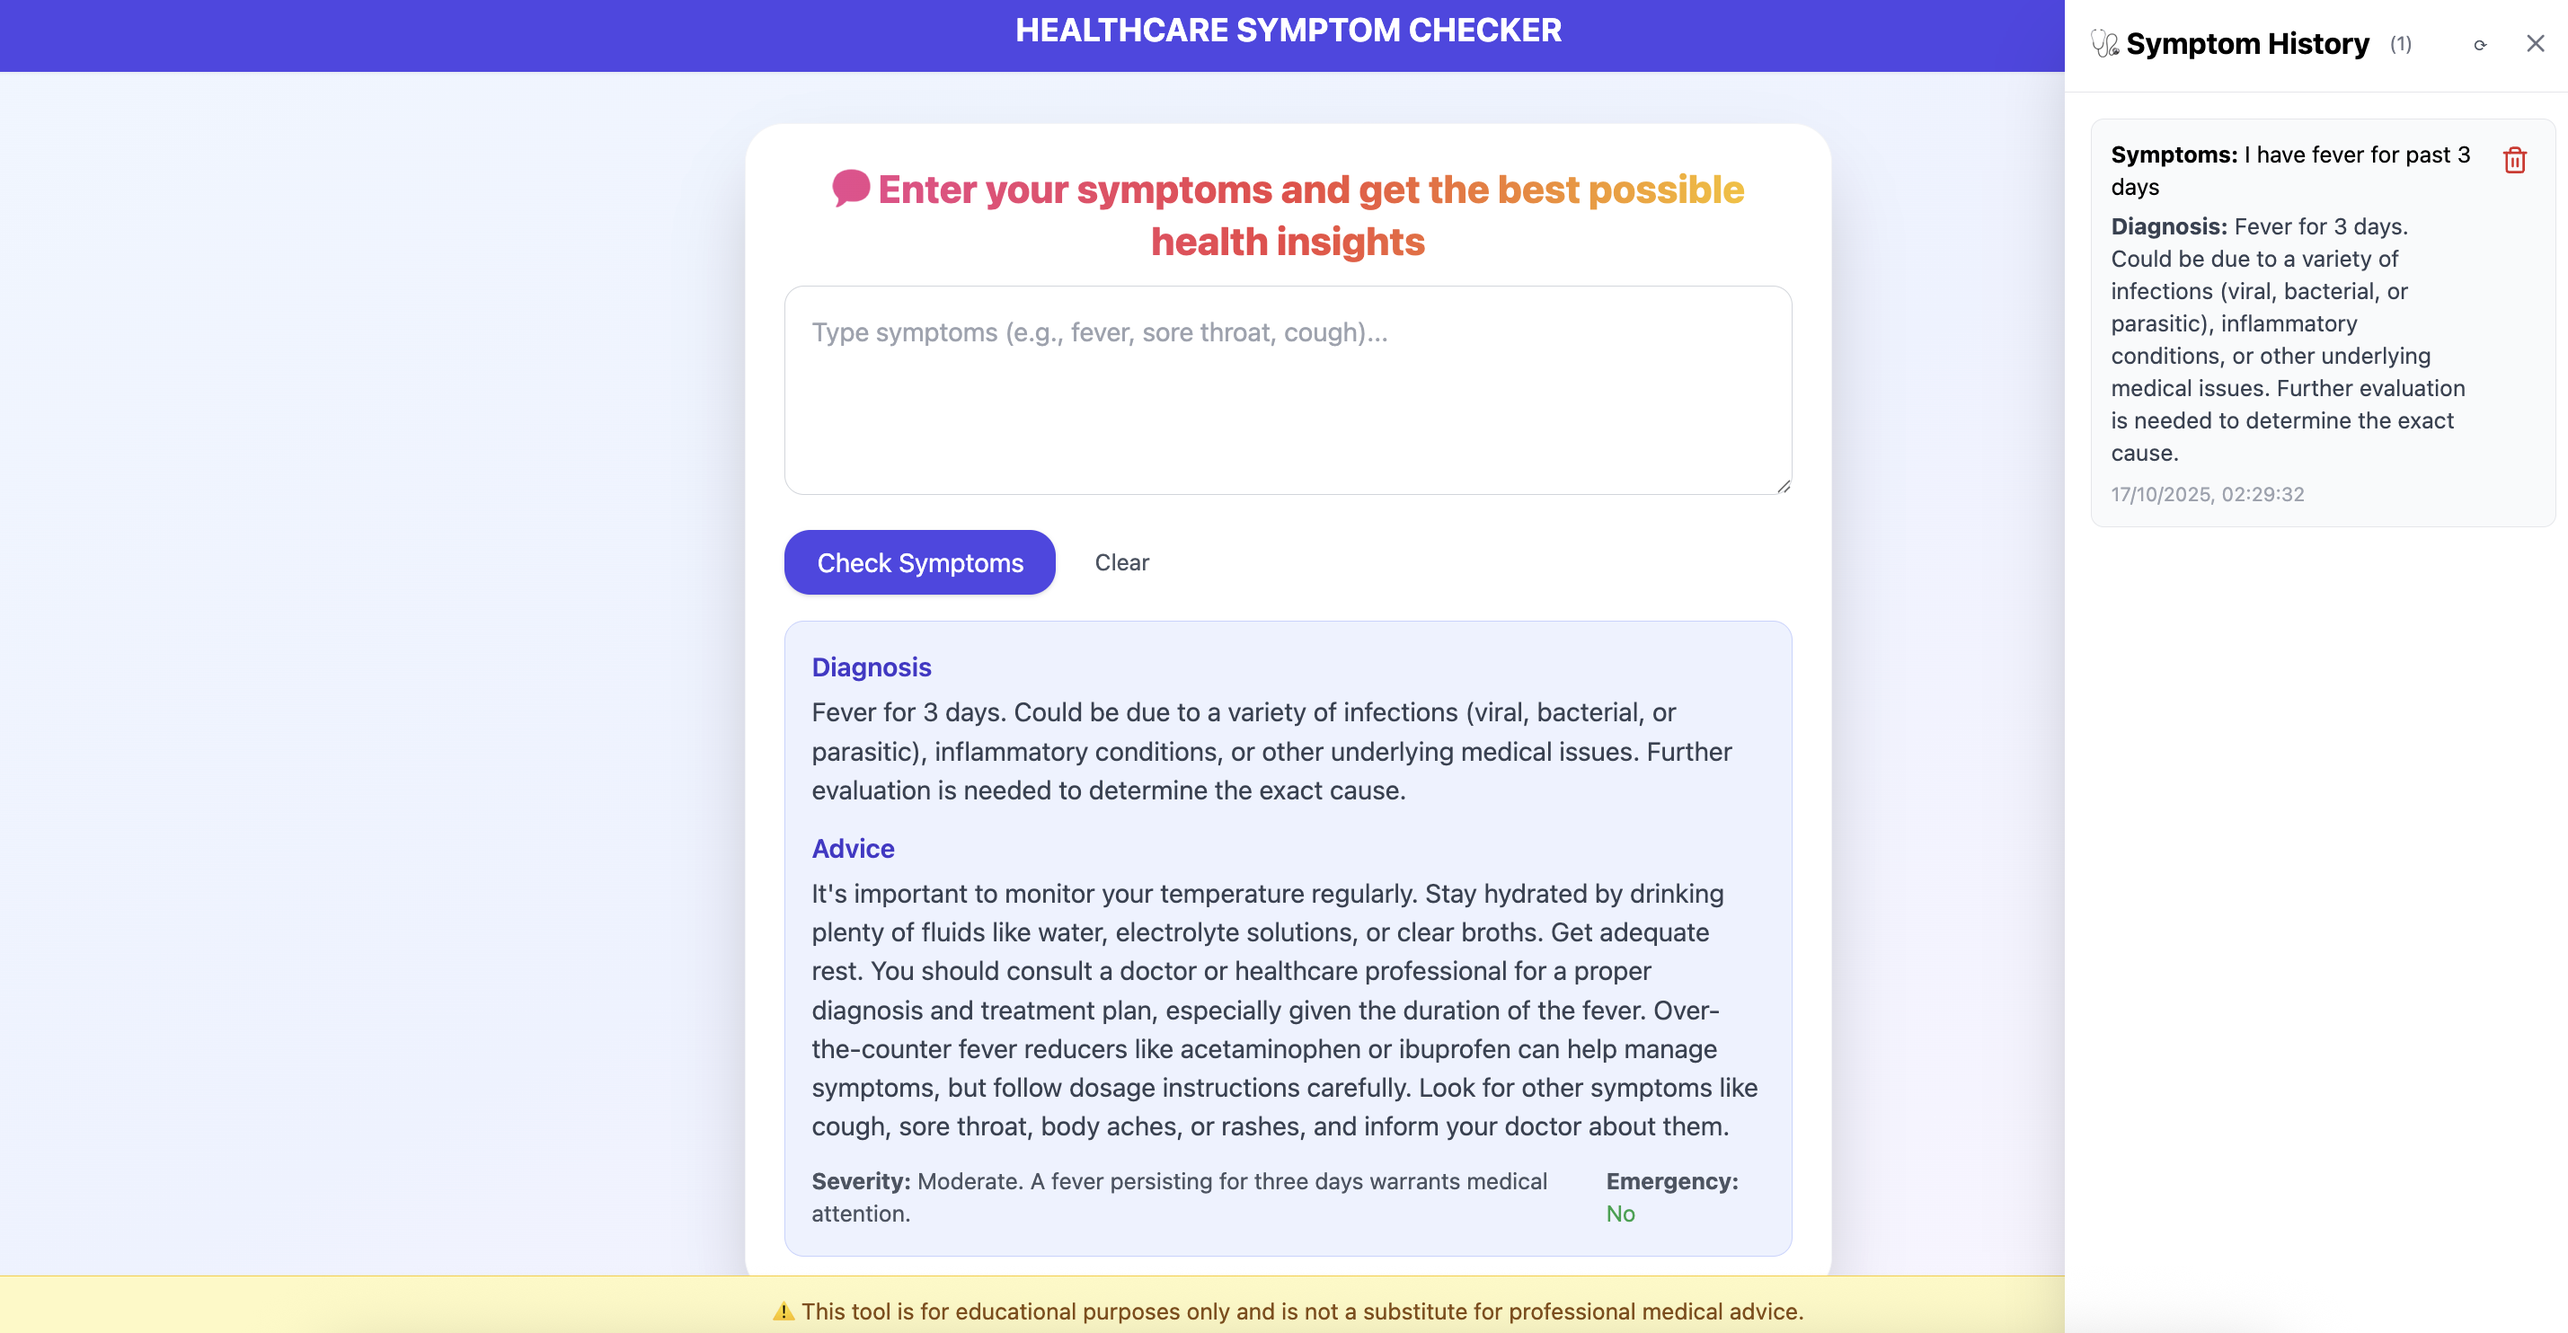
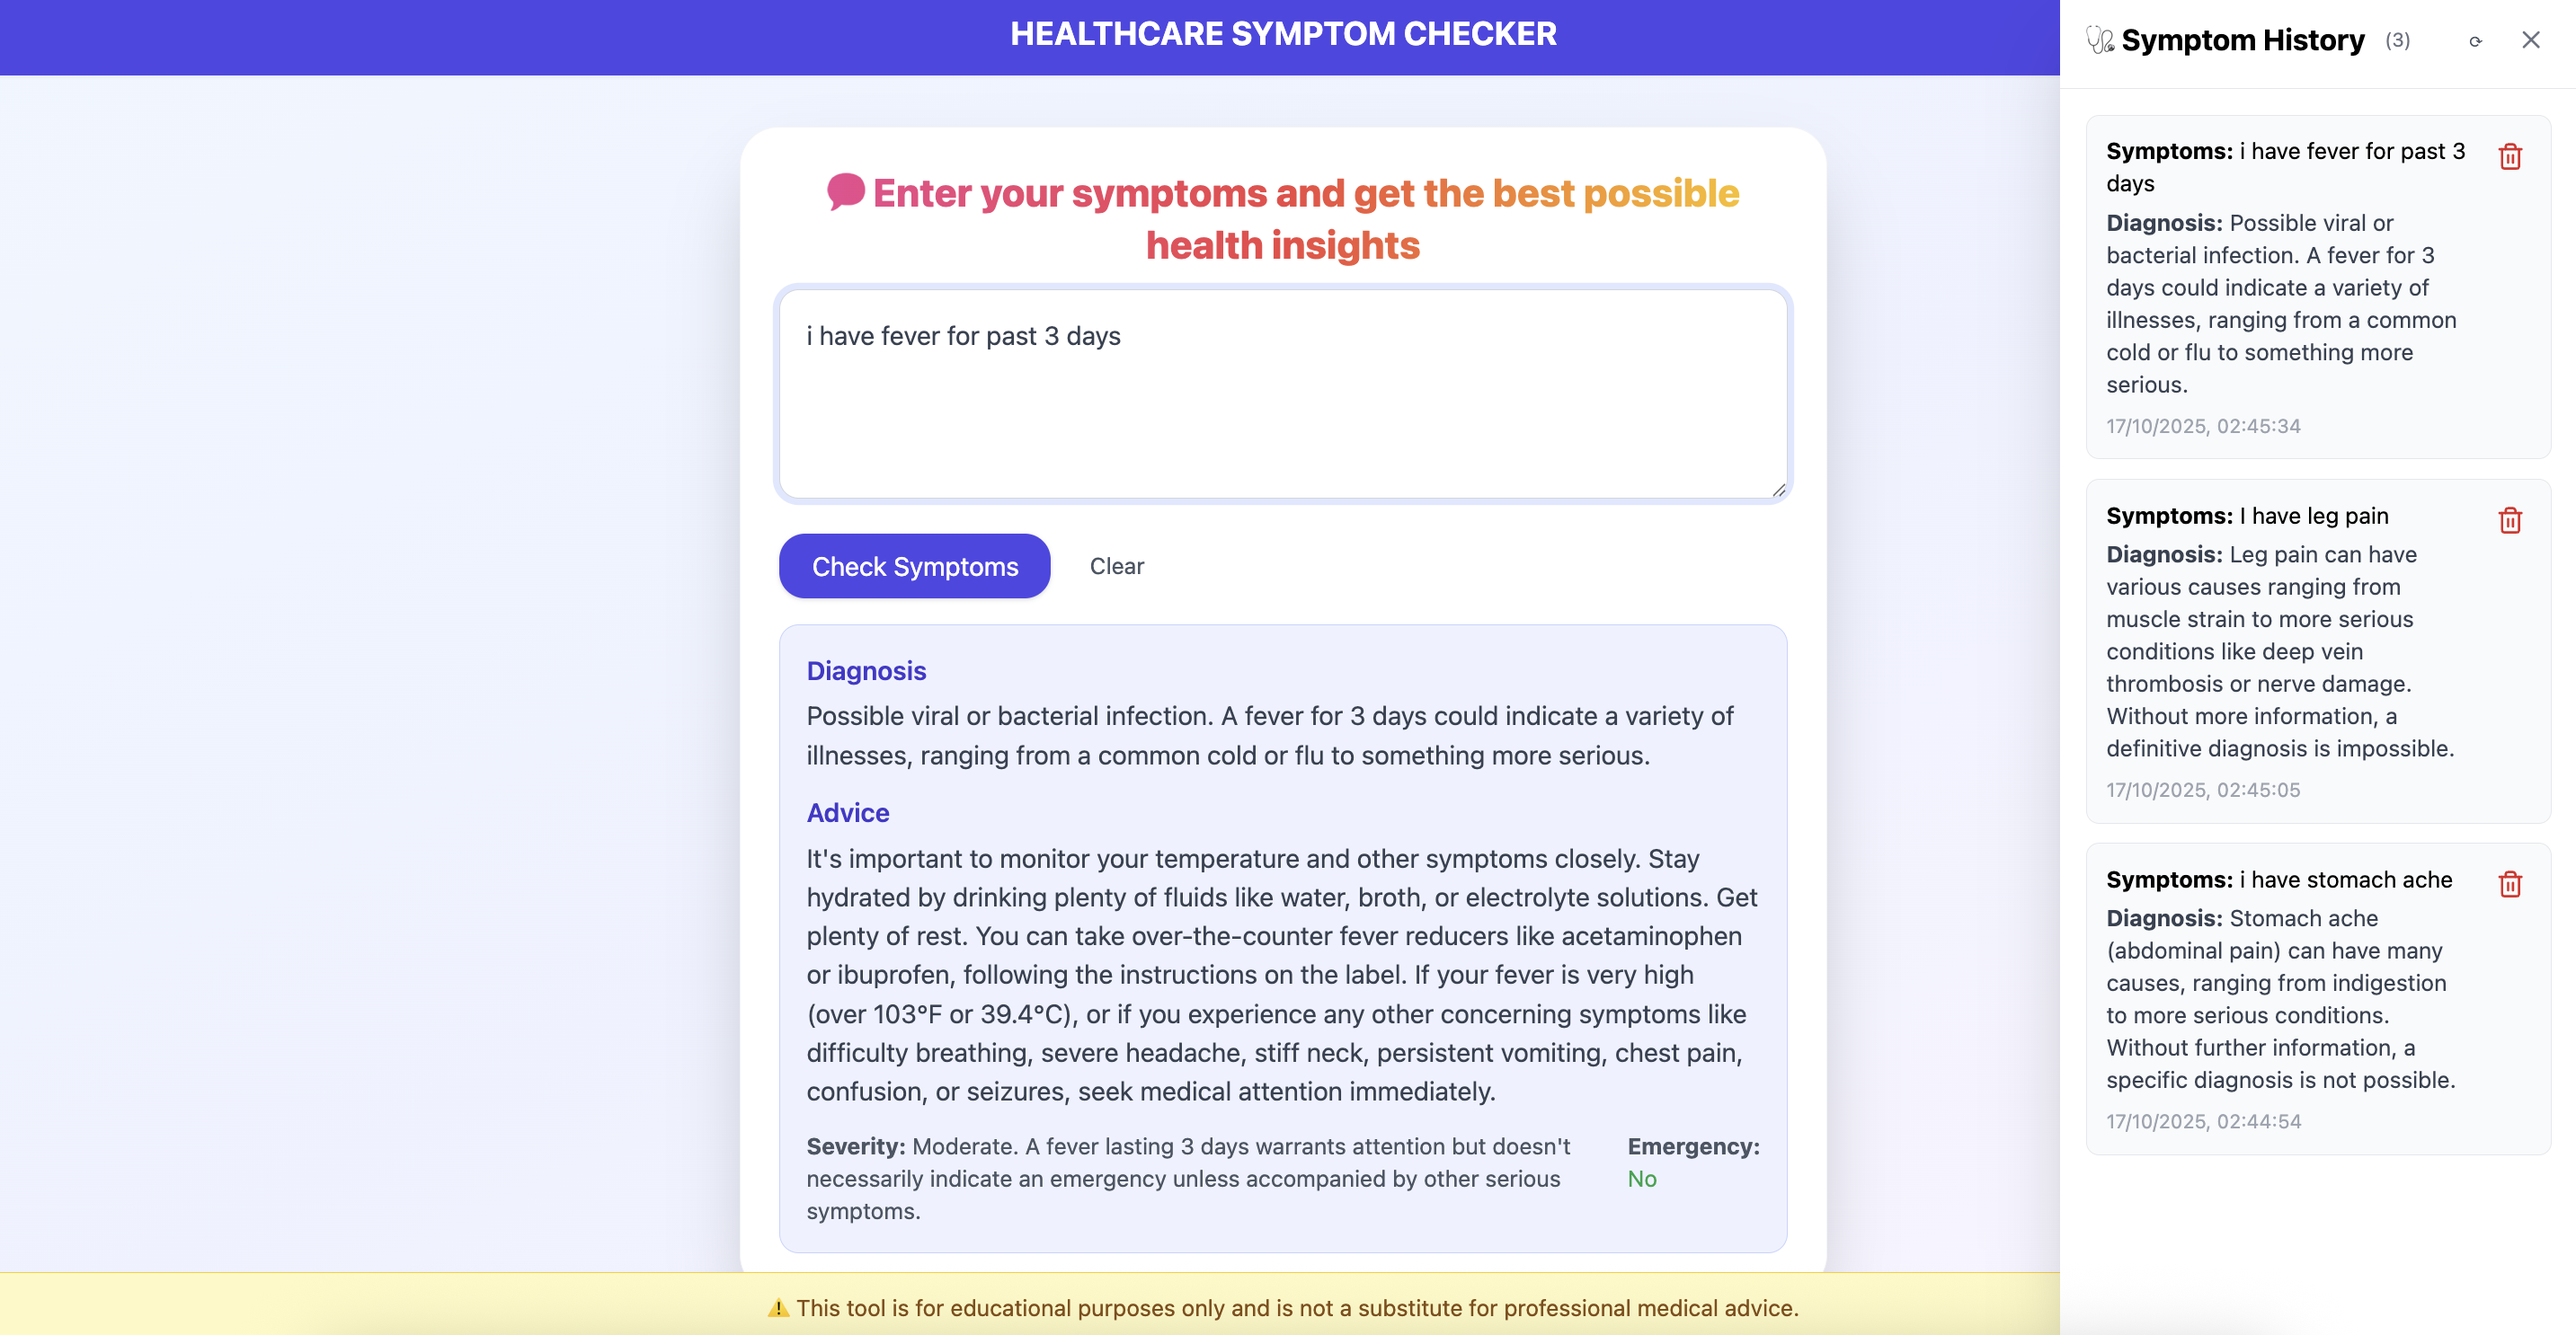
Update README.md to clarify chat interface and history sections; replace screenshots 3.png and 4.png with updated visuals.

diff --git a/README.md b/README.md
@@ -96,11 +96,11 @@ The Healthcare Symptom Checker uses MySQL as its primary database to store and m
 ### Symptoms queries by user and LLM generating probable conditions:
 ![Home Page](./screenshots/1.png)
 
-### 💬 Chat Interface
+### LM-generated recommended diagnosis and advice to follow:
 ![Chat Interface](./screenshots/2.png)
 
-### 📜 Chat History
+### Chat history showing users querisand the LLM generated responses.
 ![Chat History](./screenshots/3.png)
 
-### 📜 close
+### On clicking delete icon, the queries and responses are deleted.
 ![Chat History](./screenshots/4.png)
